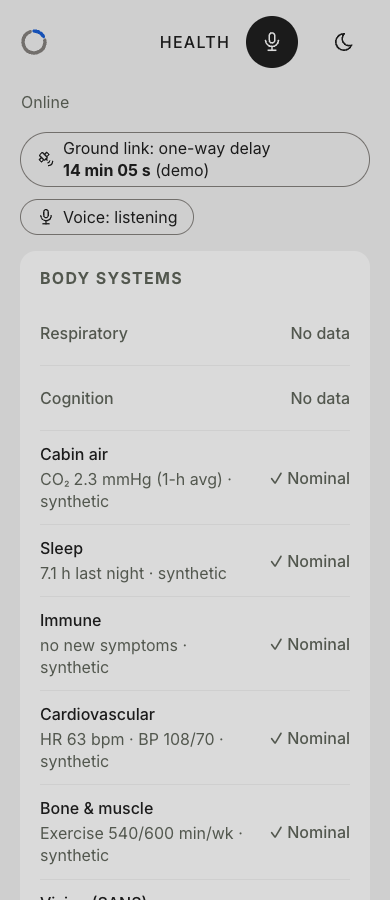
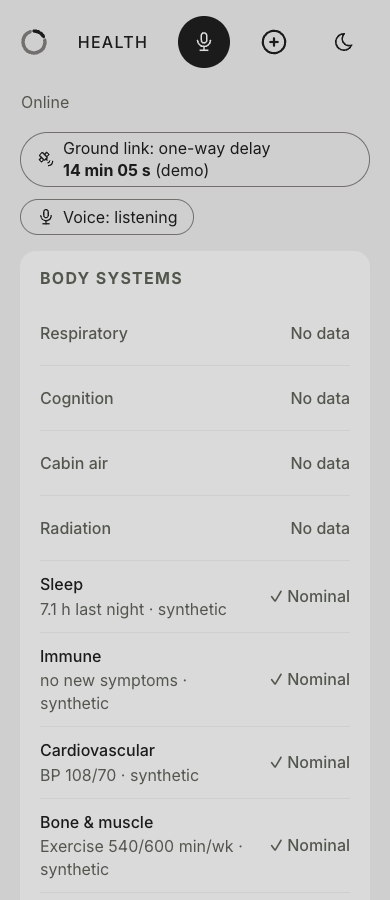
fix(voice): phone header fits the mic, Add entry and theme toggle; retake screenshots after merging main (#37)

diff --git a/src/main/frontend/src/ui/theme/base.css b/src/main/frontend/src/ui/theme/base.css
@@ -141,6 +141,13 @@ a:hover {
   min-height: var(--target-min);
 }
 
+/* On a phone, three header buttons don't fit beside a page-centred wordmark: centre it in the space between */
+@media (max-width: 599px) {
+  .app-header {
+    grid-template-columns: auto 1fr auto;
+  }
+}
+
 .brand-mark {
   justify-self: start;
   color: var(--color-ring);

diff --git a/docs/features/37-voice-briefing.md b/docs/features/37-voice-briefing.md
@@ -8,11 +8,11 @@ The astronaut taps the microphone in the header and hears a short health briefin
 
 The screen only changes in the header button and the voice pill, so the spoken texts are quoted here (captured from the app with the demo statuses).
 
-**Briefing, nothing flagged** (Respiratory and Cognition without data, no check-in or PVT yet):
-> All your readings are nominal. There is no Respiratory or Cognition reading yet. To do today: your morning check-in and the reaction test. What would you like to do next?
+**Briefing, nothing flagged** (Respiratory, Cognition, Cabin air and Radiation without data, no check-in or PVT yet):
+> All your readings are nominal. There is no Respiratory, Cognition, Cabin air or Radiation reading yet. To do today: your morning check-in and the reaction test. What would you like to do next?
 
 **Briefing after a check-in with SpO₂ 92 %** (rule SPO-01, caution):
-> Caution, Respiratory. SpO₂ is below 94 %. Yours is 92 %. Low oxygen saturation can mean hypoxia from a cabin atmosphere fault, fire or smoke. Re-measure: warm your hands, sit still for 1 minute, finger fully in, hand at heart level. Still below 94 % → tell the CMO now. Who to involve: CMO. All your other readings are nominal. There is no Cognition reading yet. To do today: the reaction test. This is decision support; your flight surgeon has the final word. What would you like to do next?
+> Caution, Respiratory. SpO₂ is below 94 %. Yours is 92 %. Low oxygen saturation can mean hypoxia from a cabin atmosphere fault, fire or smoke. Re-measure: warm your hands, sit still for 1 minute, finger fully in, hand at heart level. Still below 94 % → tell the CMO now. Who to involve: CMO. All your other readings are nominal. There is no Cognition, Cabin air or Radiation reading yet. To do today: the reaction test. This is decision support; your flight surgeon has the final word. What would you like to do next?
 
 Piper hears the symbols as words ("S P O 2 is below 94 percent", "…, then tell the CMO now").
 
@@ -43,4 +43,4 @@ The issue mock is [37-mock.png](img/37-mock.png) ([script](37-voice-briefing.moc
 
 ## Mockup and deviations
 
-Home follows [01-body-map.png](../../ideas/mockups/01-body-map.png). Deviation: a microphone icon button first among the header buttons (before "Add entry" and the theme toggle) and a voice pill after the ground-link pill; no voice mockup exists. Styles follow [ui-guidelines.md](../../ideas/ui-guidelines.md) §5 "App header", "Buttons" (inverse fill while on, 60 % opacity while disabled), "Pills and tags" and "Icons" (`VoiceIcon`). The header buttons are 18 px apart (`--gap-targets`, rule 7): the issue's AC7 said 20 px, but `main` gave the header its own 18 px gap for "Add entry" (#29) before this merged.
+Home follows [01-body-map.png](../../ideas/mockups/01-body-map.png). Deviation: a microphone icon button first among the header buttons (before "Add entry" and the theme toggle) and a voice pill after the ground-link pill; no voice mockup exists. Below 600 px the wordmark is centred between the brand mark and the buttons, since three 52 px buttons don't fit beside a page-centred wordmark. Styles follow [ui-guidelines.md](../../ideas/ui-guidelines.md) §5 "App header", "Buttons" (inverse fill while on, 60 % opacity while disabled), "Pills and tags" and "Icons" (`VoiceIcon`). The header buttons are 18 px apart (`--gap-targets`, rule 7): the issue's AC7 said 20 px, but `main` gave the header its own 18 px gap for "Add entry" (#29) before this merged.

diff --git a/ideas/ui-guidelines.md b/ideas/ui-guidelines.md
@@ -135,7 +135,7 @@ Inter for words, DM Mono for numbers (the canvas pairing). Both are bundled with
 ## 5. Components
 
 ### App header
-Brand mark (28 px, not a button) on the left, wordmark "HEALTH" in the centre, icon buttons on the right, 18 px apart: voice control (microphone, inverse fill while on, disabled on the PVT screen, #37), "Add entry" (+, Home only, opens the check-in; built: issue #29) and the theme toggle (moon in light, sun in dark). Context pills sit in one wrapping row under it on every layout and screen: the connection pill, then the ground-link pill (#19), then the voice pill while voice is on ("Voice: listening", "Voice: thinking", "Voice: speaking") or after it failed, until the mic is tapped again ("Voice host unreachable", "Voice: audio not available") (#37). Crew and flight-day pills are not built.
+Brand mark (28 px, not a button) on the left, wordmark "HEALTH" in the centre (below 600 px, centred in the space between the brand mark and the buttons, which don't fit beside a page-centred wordmark), icon buttons on the right, 18 px apart: voice control (microphone, inverse fill while on, disabled on the PVT screen, #37), "Add entry" (+, Home only, opens the check-in; built: issue #29) and the theme toggle (moon in light, sun in dark). Context pills sit in one wrapping row under it on every layout and screen: the connection pill, then the ground-link pill (#19), then the voice pill while voice is on ("Voice: listening", "Voice: thinking", "Voice: speaking") or after it failed, until the mic is tapped again ("Voice host unreachable", "Voice: audio not available") (#37). Crew and flight-day pills are not built.
 
 ### Brand mark and splash
 - **Ring:** a 270° arc in `--color-ring` and a 60° arc in `--color-text`, round caps (canvas geometry). The arc was red on the canvas, then blue; blue now means level 1 only.
